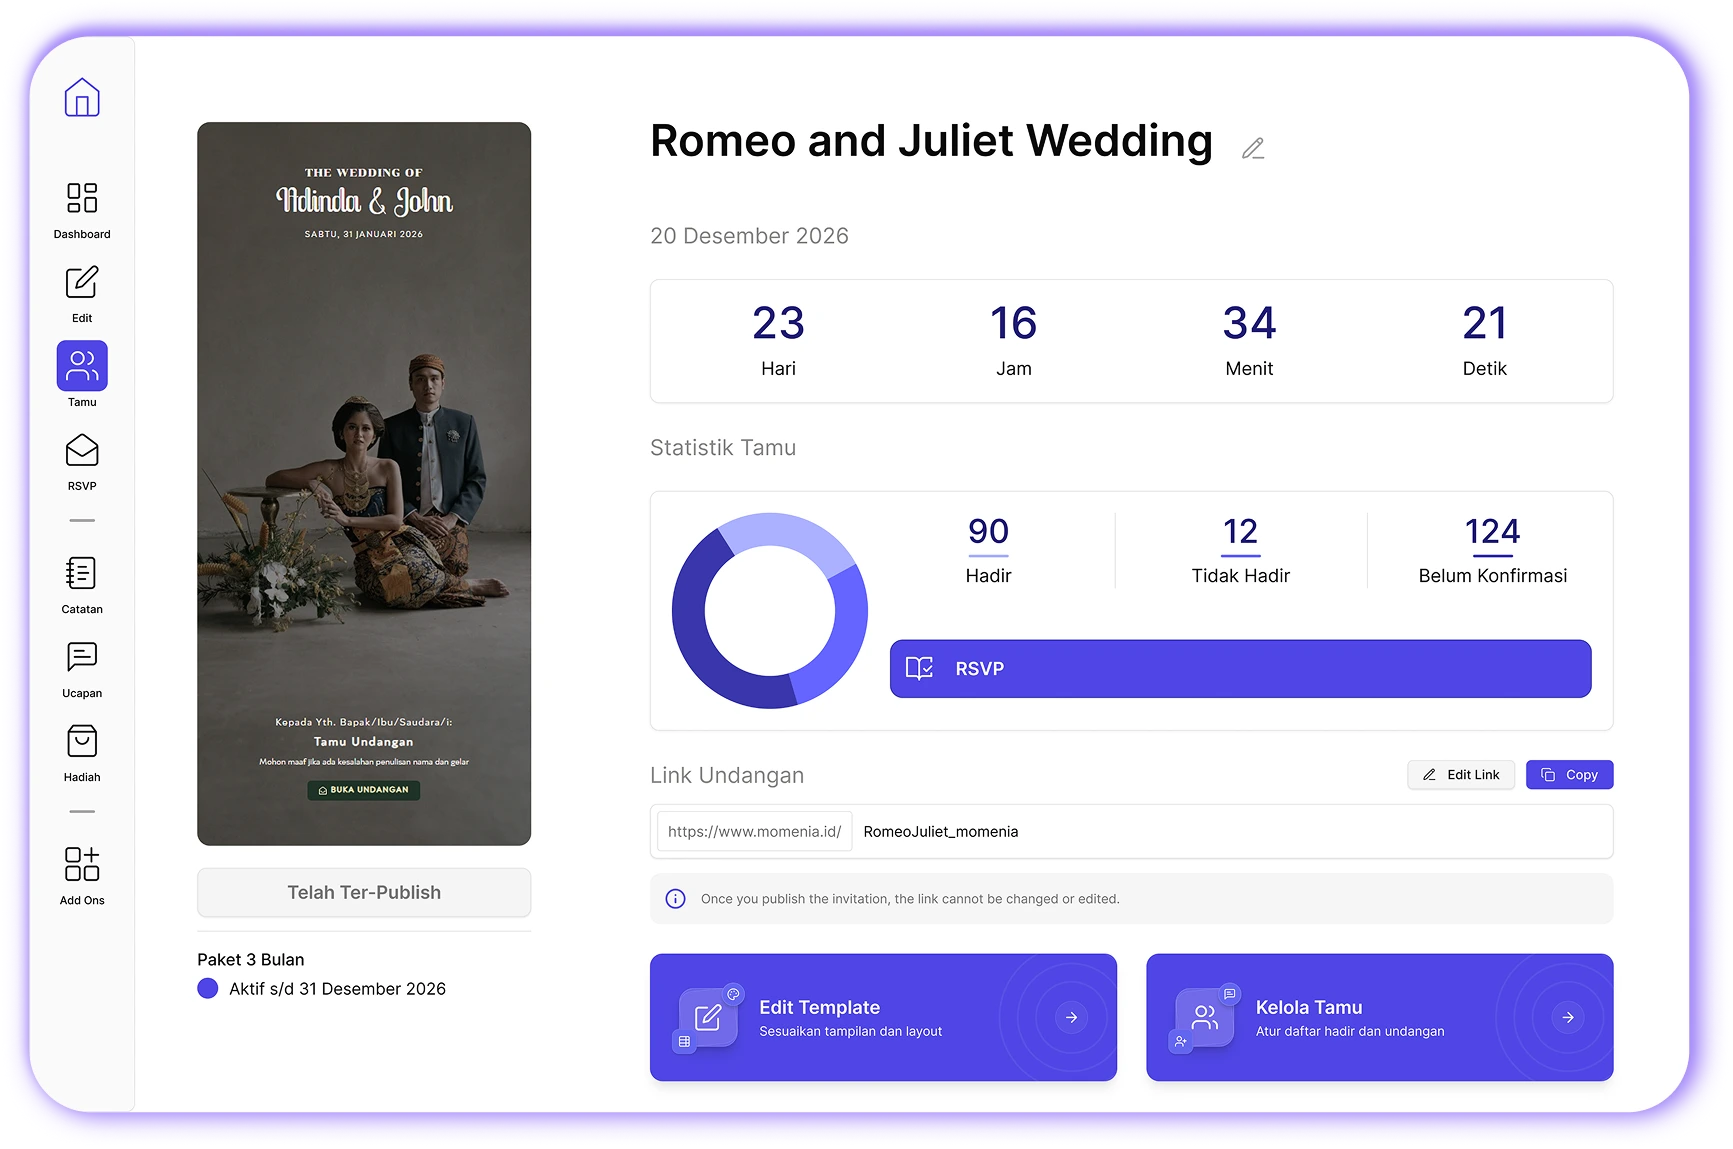
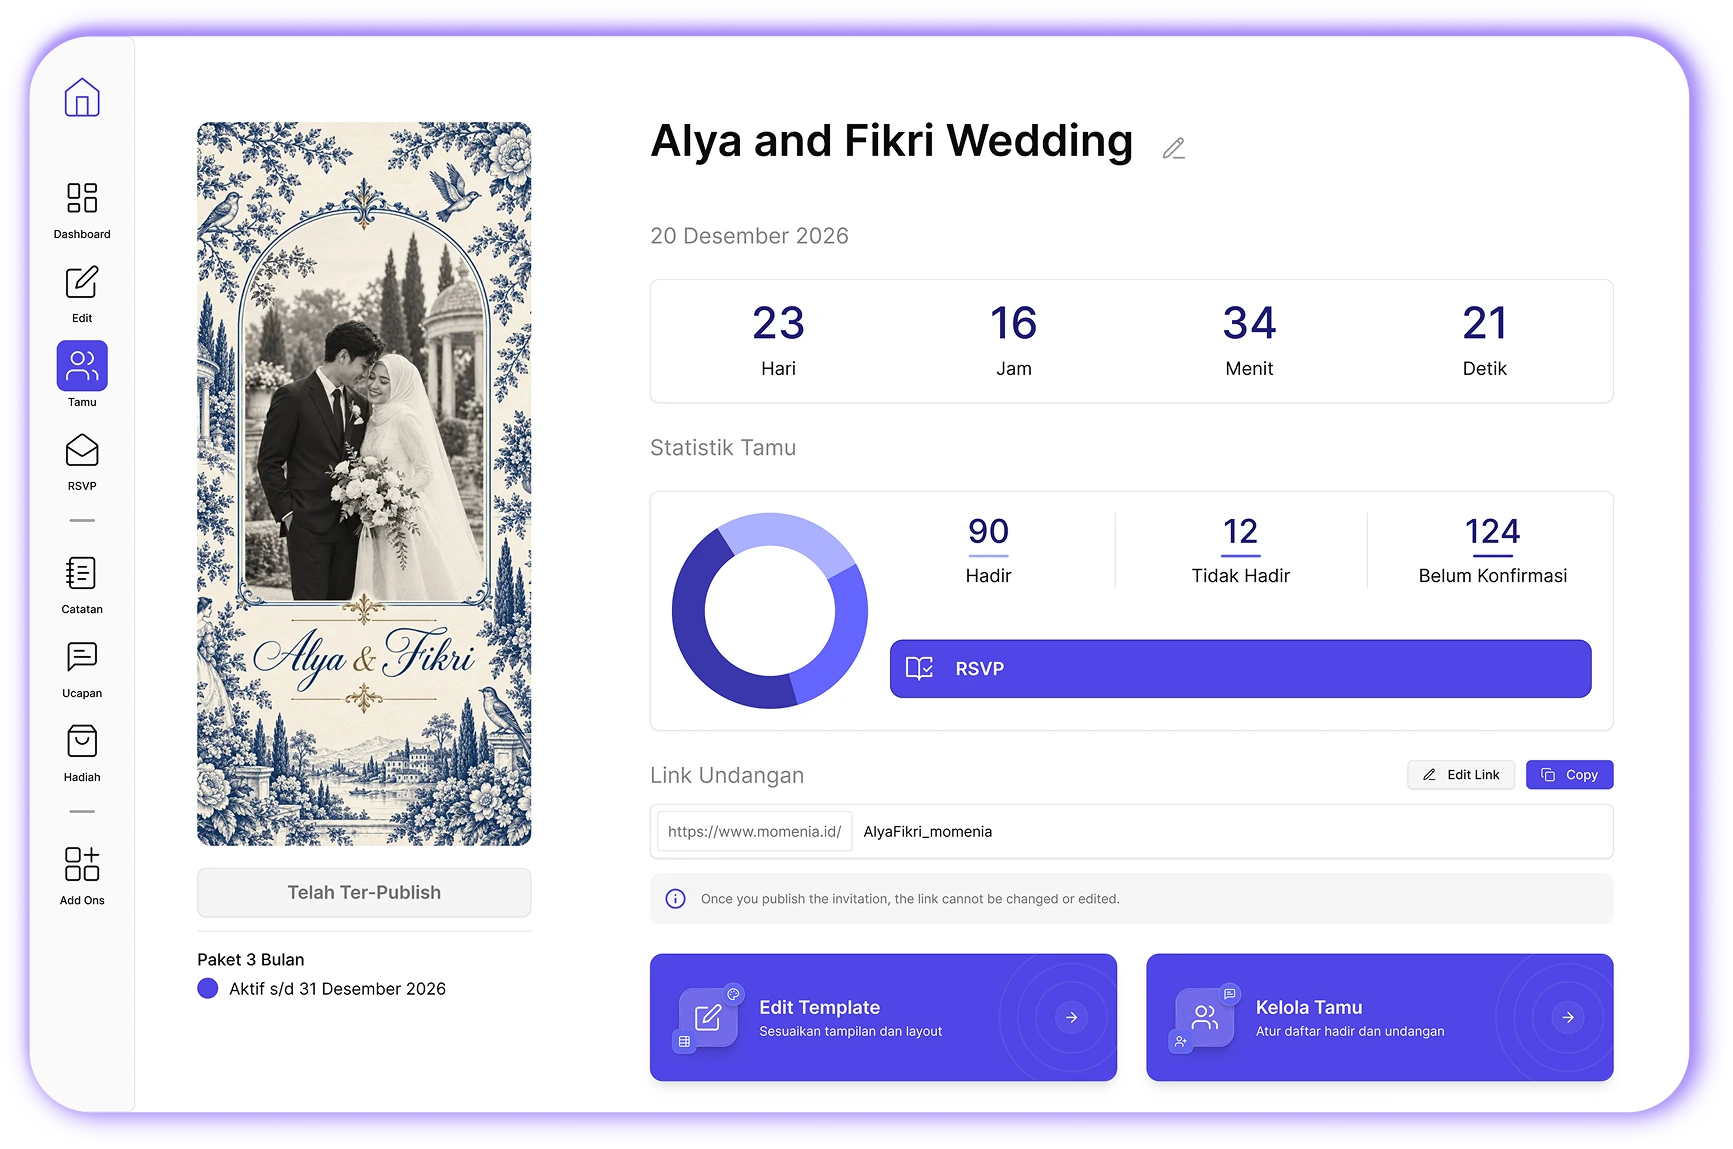
feat: use new about-us.webp and refreshed landingPage.webp on the landing page
Replace the About Us section's about-us.svg with the new about-us.webp, and
update landingPage.webp in place with the refreshed hero artwork.

Both new images keep the exact dimensions of what they replace
(about-us 704x530, landingPage 1733x1149) and keep their transparency, so
the percentage-positioned floating icons and panels stay where they were.
about-us is also much lighter: ~120 KB versus ~634 KB for the old SVG.

The old SVGs (about-us.svg, main-dashboard-preview.svg) are left in place
but are no longer referenced anywhere.

Changed region(s): [[0.0935, 0.0914, 0.3116, 0.7615], [0.3739, 0.0914, 0.7167, 0.1523], [0.4986, 0.7006, 0.592, 0.7311]]

diff --git a/src/components/landing/AboutSection.tsx b/src/components/landing/AboutSection.tsx
@@ -5,7 +5,7 @@ import Image from "next/image"
 import { WandSparkles, PenTool, Feather, LayoutGrid } from "lucide-react"
 import { motion } from "framer-motion"
 import { useTranslations } from "next-intl"
-import AboutUsImage from "@/assets/llandingpage/about-us.svg"
+import AboutUsImage from "@/assets/llandingpage/about-us.webp"
 
 export function AboutSection() {
   // ── Semua hooks dideklarasikan di atas, berurutan ──
